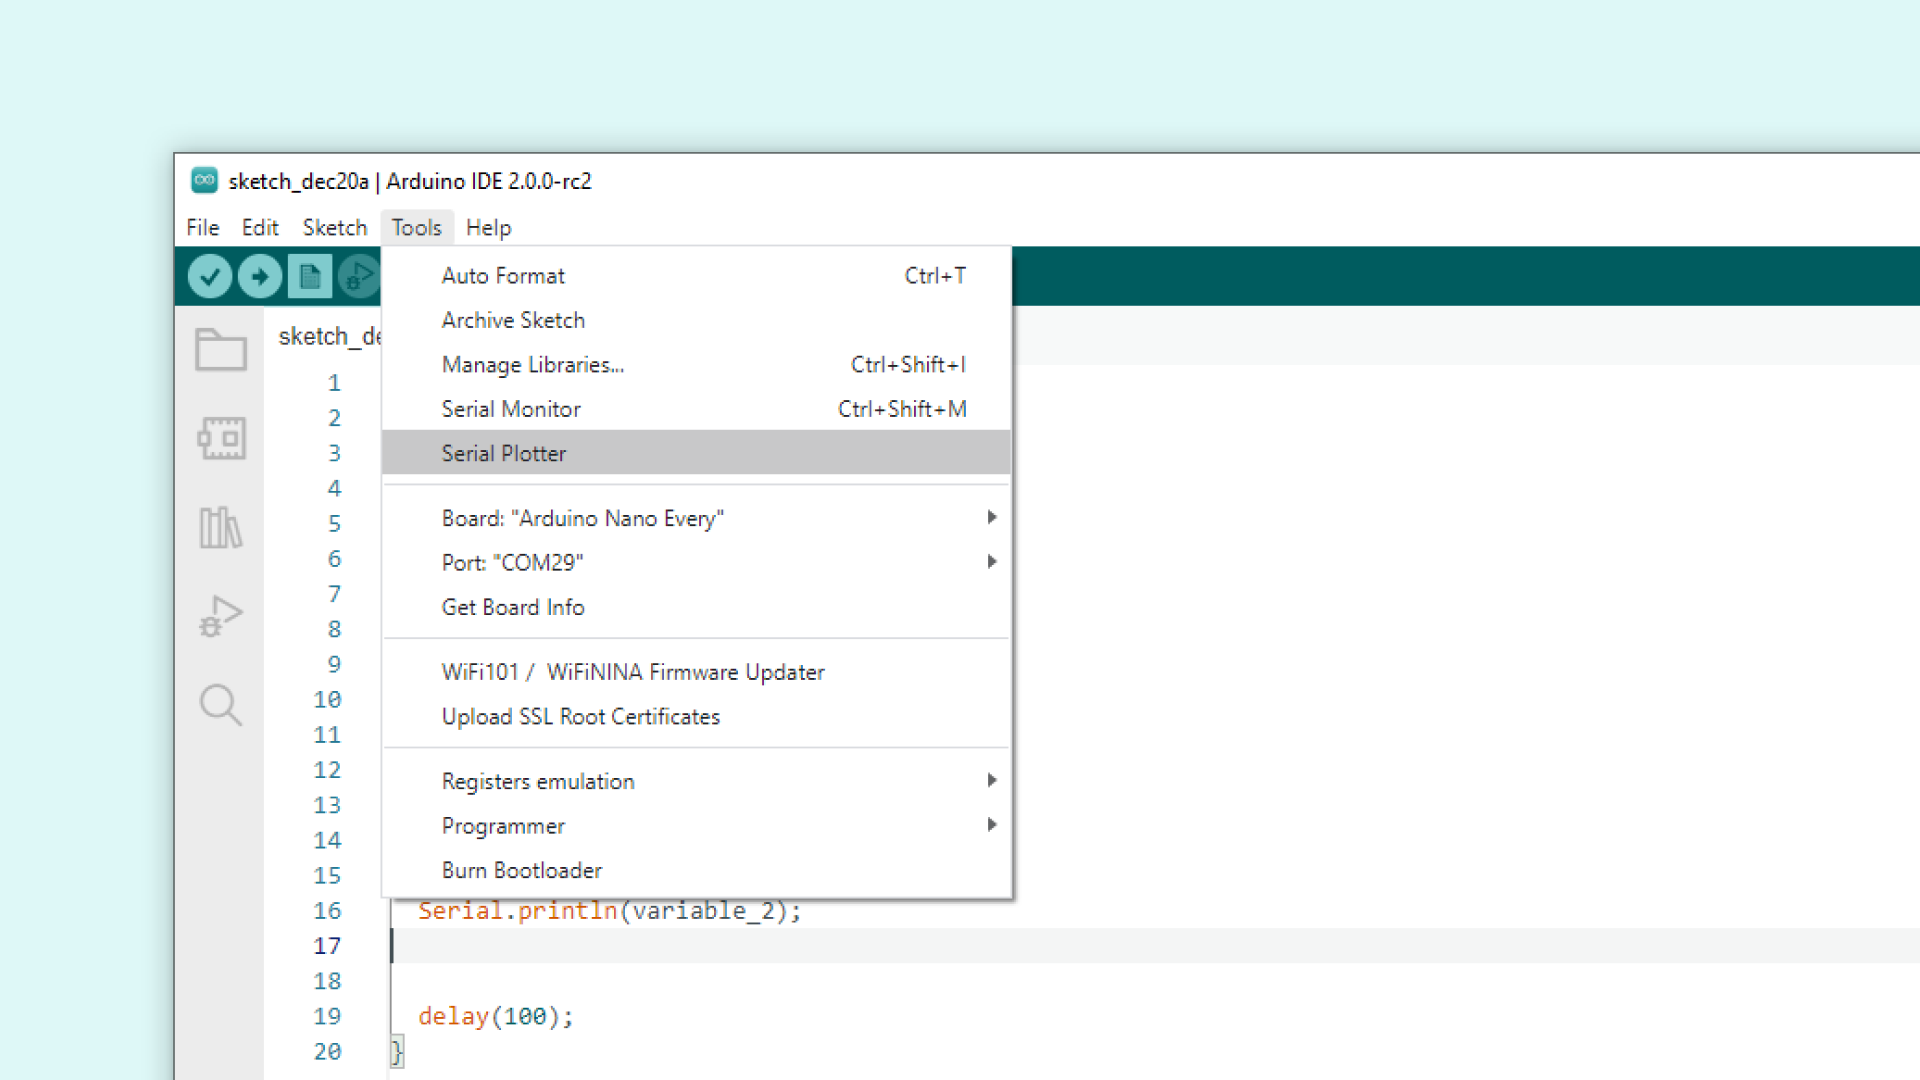
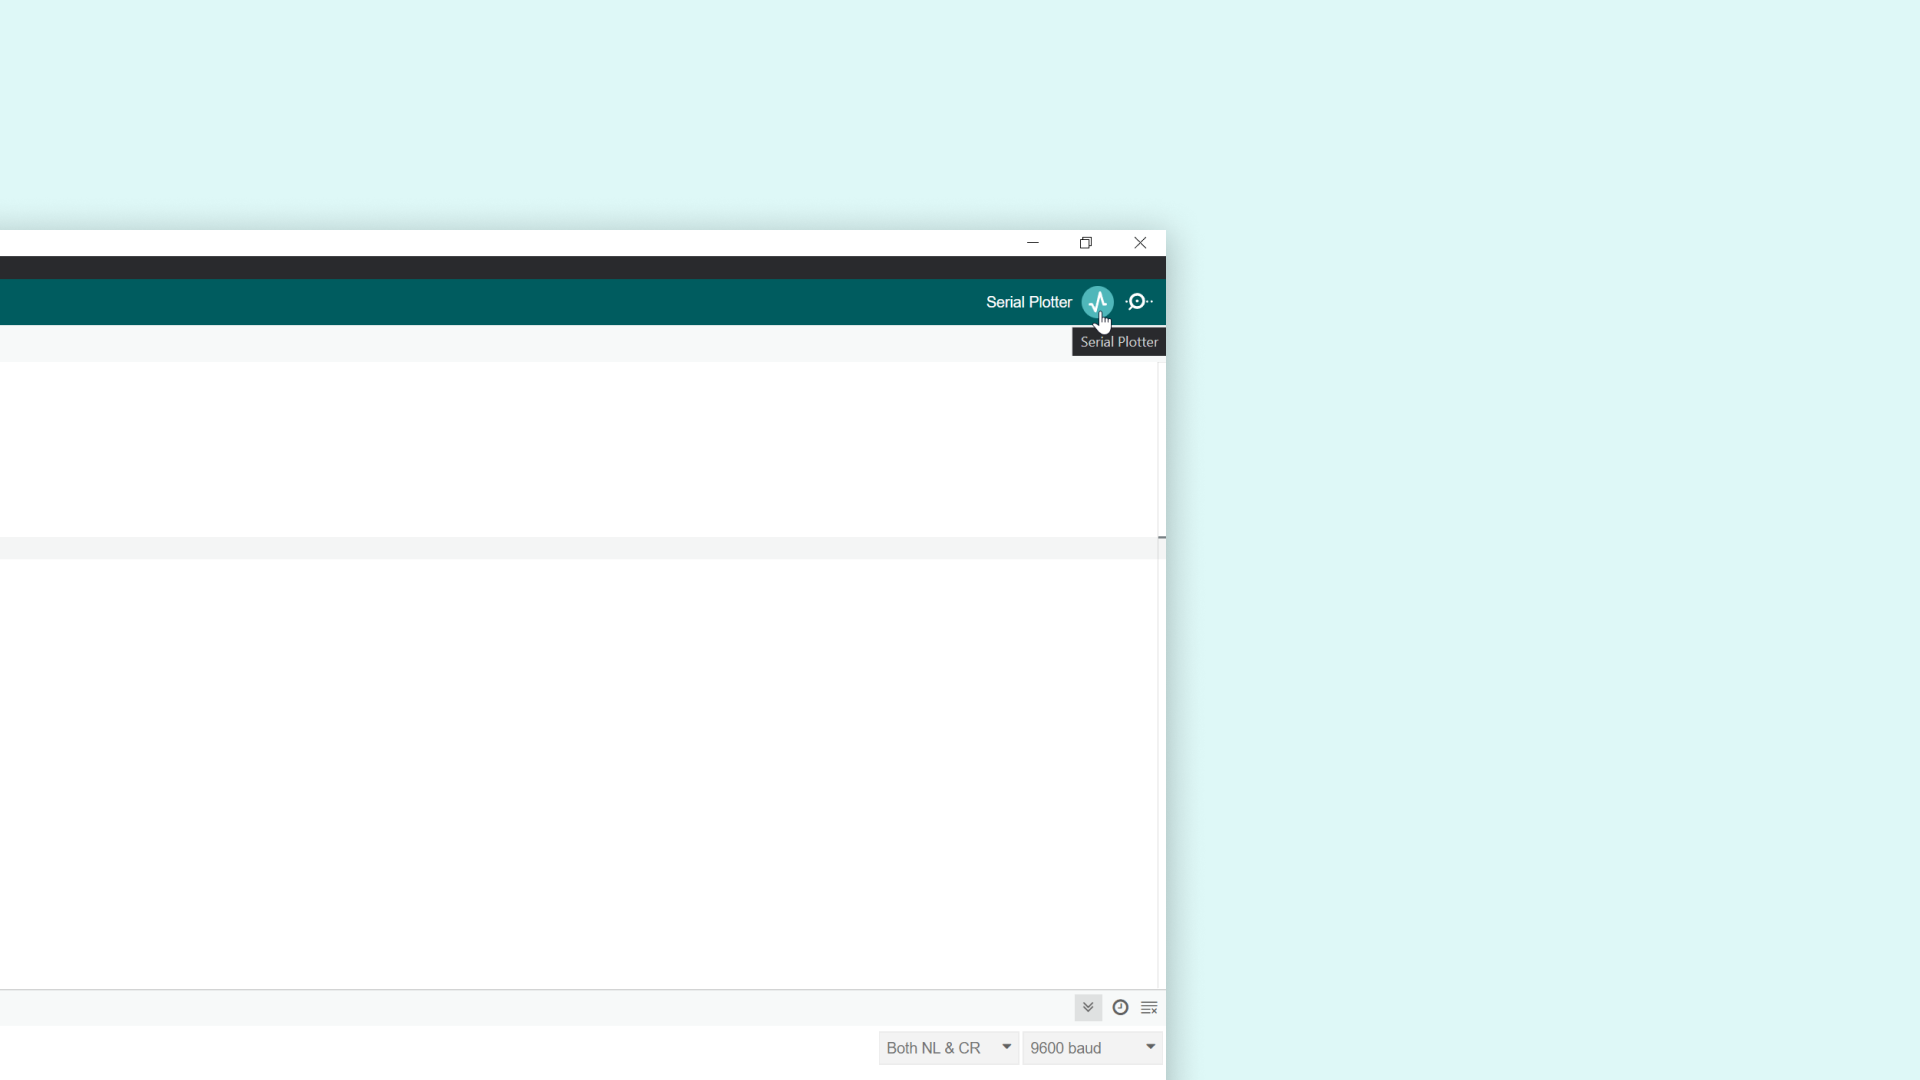
Updated article to reflect RC9 UI

diff --git a/content/software/ide-v2/tutorials/ide-v2-serial-plotter/ide-v2-serial-plotter.md b/content/software/ide-v2/tutorials/ide-v2-serial-plotter/ide-v2-serial-plotter.md
@@ -92,7 +92,7 @@ Once the sketch is uploaded, we can test out the Serial Plotter.
 
 ***Make sure the sketch has finished uploading before opening the Serial Plotter. You will see the text "upload complete" in the terminal output.***
 
-Navigate to **Tools > Serial Plotter** as shown in the image below.
+Click the button in the the top right of the IDE window to open the **Serial Plotter**.
 
 ![Opening the Serial Plotter](assets/serial-plotter-open.png)
 
